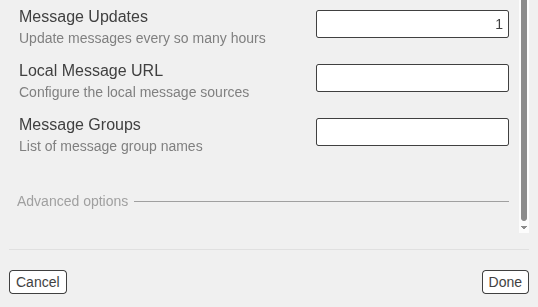
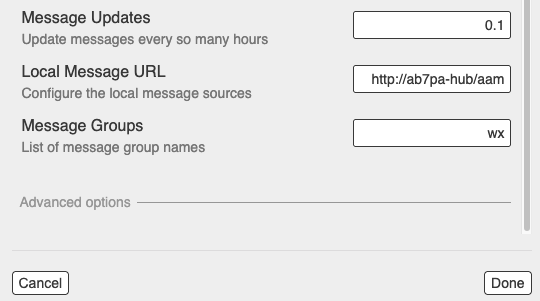
update aam text (#568)

Pull request: update aam text

diff --git a/arednGettingStarted/node_admin.rst b/arednGettingStarted/node_admin.rst
@@ -429,17 +429,20 @@ Wireless Watchdog
 PoE and USB Power Passthrough
   These settings will only appear if you have node hardware which supports PoE or USB power passthrough. One example is the *Mikrotik hAP ac lite* which provides one USB-A power jack (~5v) as well as PoE power passthrough on Ethernet port 5 (~22v). You are allowed to enable or disable power passthrough on nodes with ports that support this feature.
 
-|
+AREDN® Alert Messages
++++++++++++++++++++++
+
+AREDN® Alert Messages are displayed on the status page of nodes. The AREDN® development team can post messages which Internet-connected nodes download and display, or you can implement your own local message server from which your nodes can pull their messages.
 
 .. image:: _images/admin-internal-svc-3.png
   :alt: Admin Internal Services continued
   :align: center
 
 Message Updates
-  AREDN® Alert Messages can be displayed on the status page of nodes. The AREDN® development team may post messages which Internet-connected nodes download and display at the interval specified here. Enter a number in this field which represents the number of hours you want your node to wait before pulling its messages. Decimal fractions of an hour are allowed (for example, ``0.5`` for every 30 minutes). The default value is ``1`` hour between updates.
+  Enter a number in this field which represents the number of hours you want your node to wait before pulling its messages. Decimal fractions of an hour are allowed (for example, ``0.5`` for every 30 minutes). The default value is ``1`` hour between updates.
 
 Local Message URL
-  You may also use a local message source to host messages, and this field allows you to enter the URL for your local message source. If you configure a local message server, then even nodes without Internet access can receive alert messages pertinent to your local situation. The message source consists of a mesh-connected web server which allows nodes to query the URL you enter here. You can consult your local mesh web server administrator to obtain the correct URL for the local message repository.  Enter the URL without a trailing backslash.
+  This field allows you to enter the URL for a local message source. If you configure a local message server, then even nodes without Internet access can receive alert messages via RF or other local links. The message source consists of a mesh-connected web server which allows nodes to query the URL you enter here. You can consult your local mesh web server administrator to obtain the correct URL for the local message repository.  Enter the URL without a trailing backslash.
 
 Message Groups
   In addition to local messages addressed by name to specific nodes, it is possible to subscribe to group messages. Multiple group names can be added to this field as a comma delimited list. Group messages are retrieved from the web server specified in the *Local Message URL* field. The following are example grouping ideas: